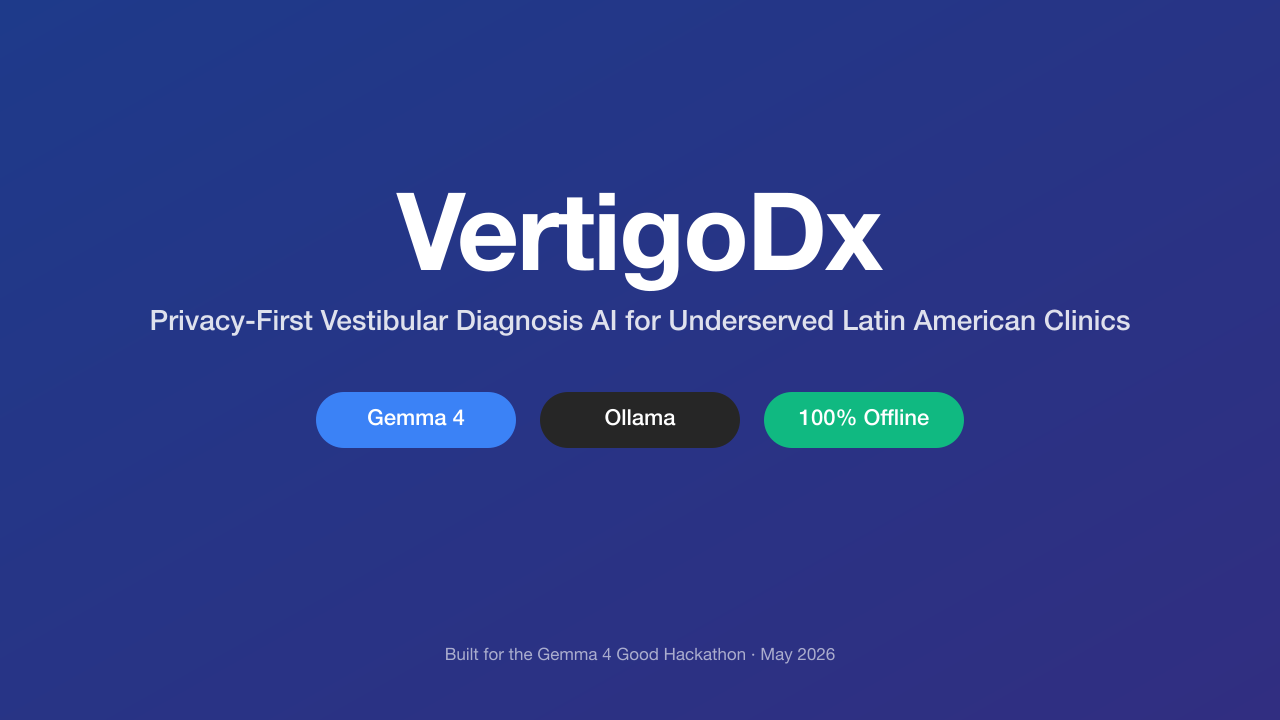
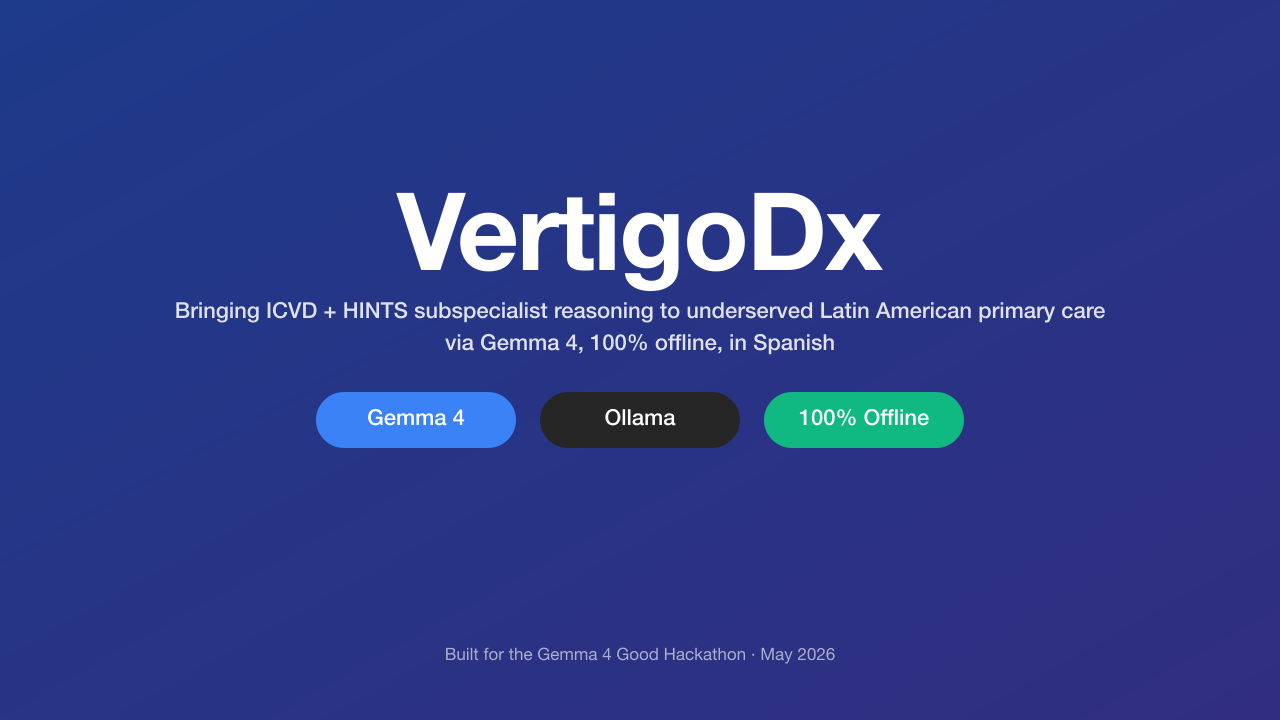
docs: submission polish — cover subtitle + README cleanup
Update cover image subtitle to "Bringing ICVD + HINTS subspecialist
reasoning to underserved Latin American primary care via Gemma 4,
100% offline, in Spanish" (two-line layout at font-size 22).
Regenerate PNG from SVG. README: remove unlinked demo-video nav
entry, rename "See it in action" to "Demo scenarios", drop
"video will be embedded" placeholder, correct Next.js 14 → 16.

Changed region(s): [[0.0938, 0.3972, 0.9062, 0.4889]]

diff --git a/README.md b/README.md
@@ -19,7 +19,7 @@
 [![Security](https://img.shields.io/badge/Security-policy-red.svg)](SECURITY.md)
 [![Hackathon](https://img.shields.io/badge/Gemma_4_Good-Hackathon_2026-FF6F61)](https://www.kaggle.com/competitions/gemma-4-good-hackathon)
 
-[**Demo video**](#see-it-in-action) · [**Quickstart**](#quickstart-60-seconds) · [**Architecture**](#how-it-works) · [**Roadmap**](#roadmap) · [**Limitations**](#honest-limitations) · [**Contributing**](CONTRIBUTING.md)
+[**Quickstart**](#quickstart-60-seconds) · [**Architecture**](#how-it-works) · [**Demo scenarios**](#demo-scenarios) · [**Roadmap**](#roadmap) · [**Limitations**](#honest-limitations) · [**Contributing**](CONTRIBUTING.md)
 
 </div>
 
@@ -203,9 +203,9 @@ The implementation lives in [`backend/app/llm.py`](backend/app/llm.py) — `pick
 
 ---
 
-## See it in action
+## Demo scenarios
 
-The 3-minute demo walks through five real-world scenarios:
+VertigoDx ships with five scripted clinical cases (`data/demo_cases.json`) that exercise the full pipeline end-to-end:
 
 1. **Classic BPPV in a 52-year-old** — Epley maneuver recommended
 2. **Probable Ménière's disease** with fluctuating hearing loss
@@ -213,7 +213,7 @@ The 3-minute demo walks through five real-world scenarios:
 4. **Cerebellar stroke** — the dramatic case. Watch the red alert trigger.
 5. **VM + Ménière comorbidity** — where Gemma's reasoning shines
 
-> 🎥 **Demo video will be embedded here after upload.** Submitted to the Gemma 4 Good Hackathon · May 2026.
+Run them locally from the `/demo` page after starting the backend and frontend (see [Quickstart](#quickstart-60-seconds)). The same cases double as `pytest` fixtures and are the ground truth for the rule engine: 100% top-1 diagnostic agreement and stroke-alert triggering across the set.
 
 ---
 
@@ -233,7 +233,7 @@ vertigoDx/
 │   │   └── data/
 │   │       └── icvd_corpus.md  ICVD criteria corpus used for RAG
 │   └── tests/              pytest — 5 demo cases as ground truth
-├── frontend/               Next.js 14 (App Router) + shadcn/ui
+├── frontend/               Next.js 16 (App Router) + shadcn/ui
 │   ├── app/                Pages: landing, /diagnose, /demo, /result
 │   └── components/         QuestionWizard, ResultPanel, StrokeAlert, OfflineBadge
 ├── data/
@@ -276,7 +276,7 @@ vertigoDx/
 <td valign="top" width="33%">
 
 **Frontend**
-- Next.js 14 (App Router)
+- Next.js 16 (App Router)
 - TypeScript (strict mode)
 - shadcn/ui + Tailwind CSS
 - Framer Motion (transitions)
